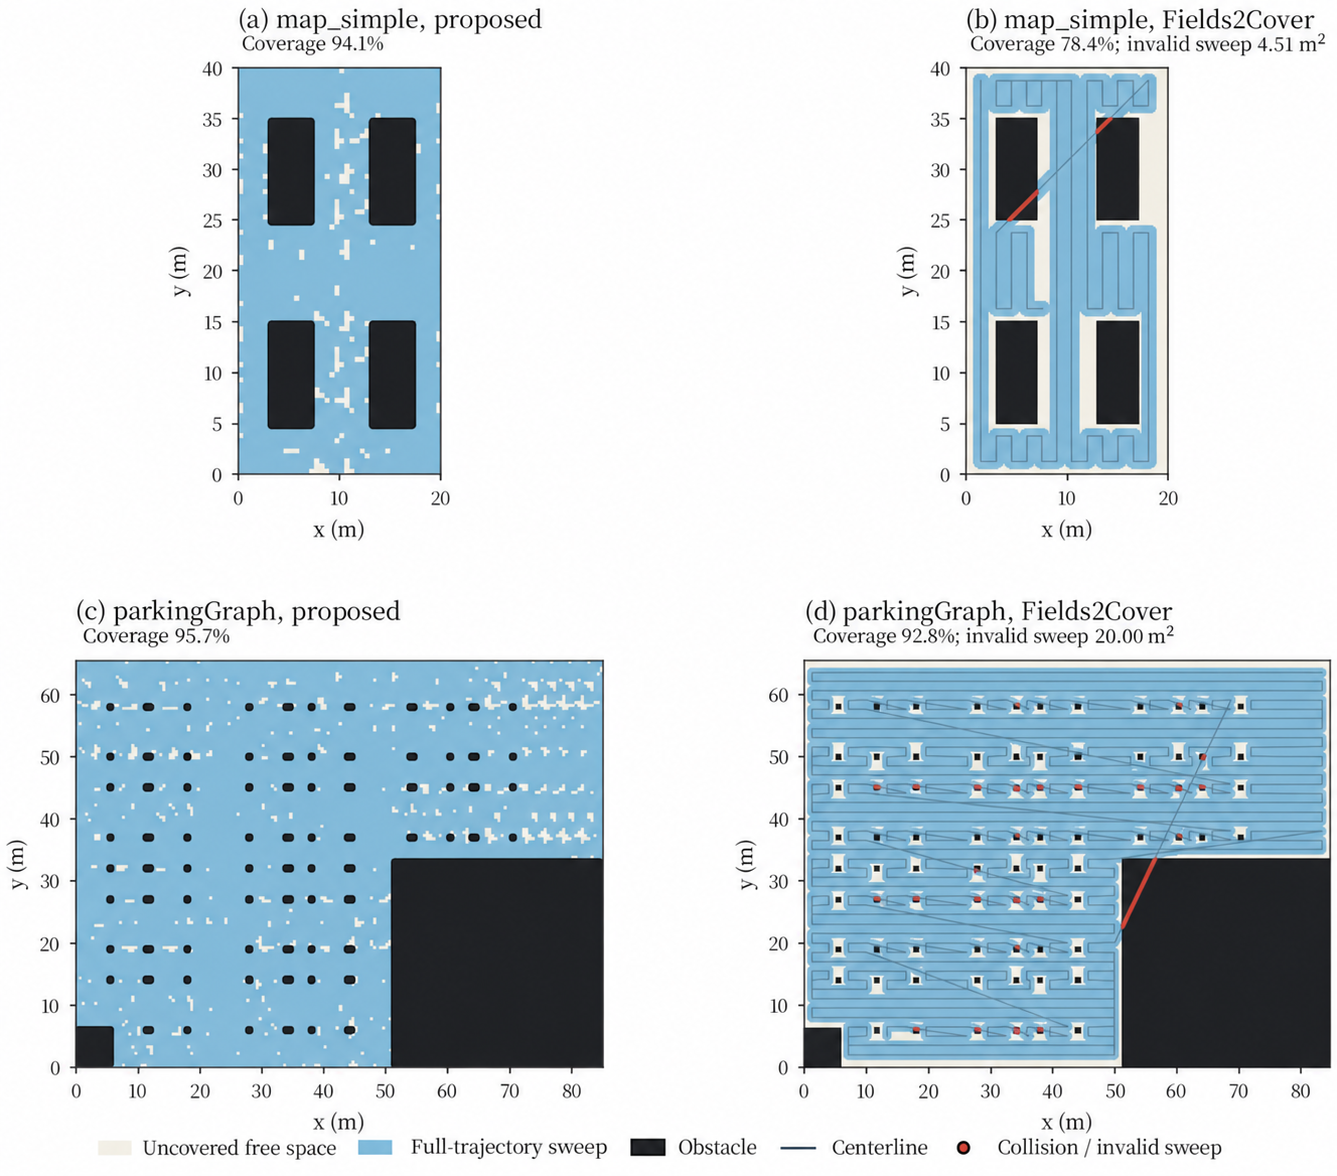
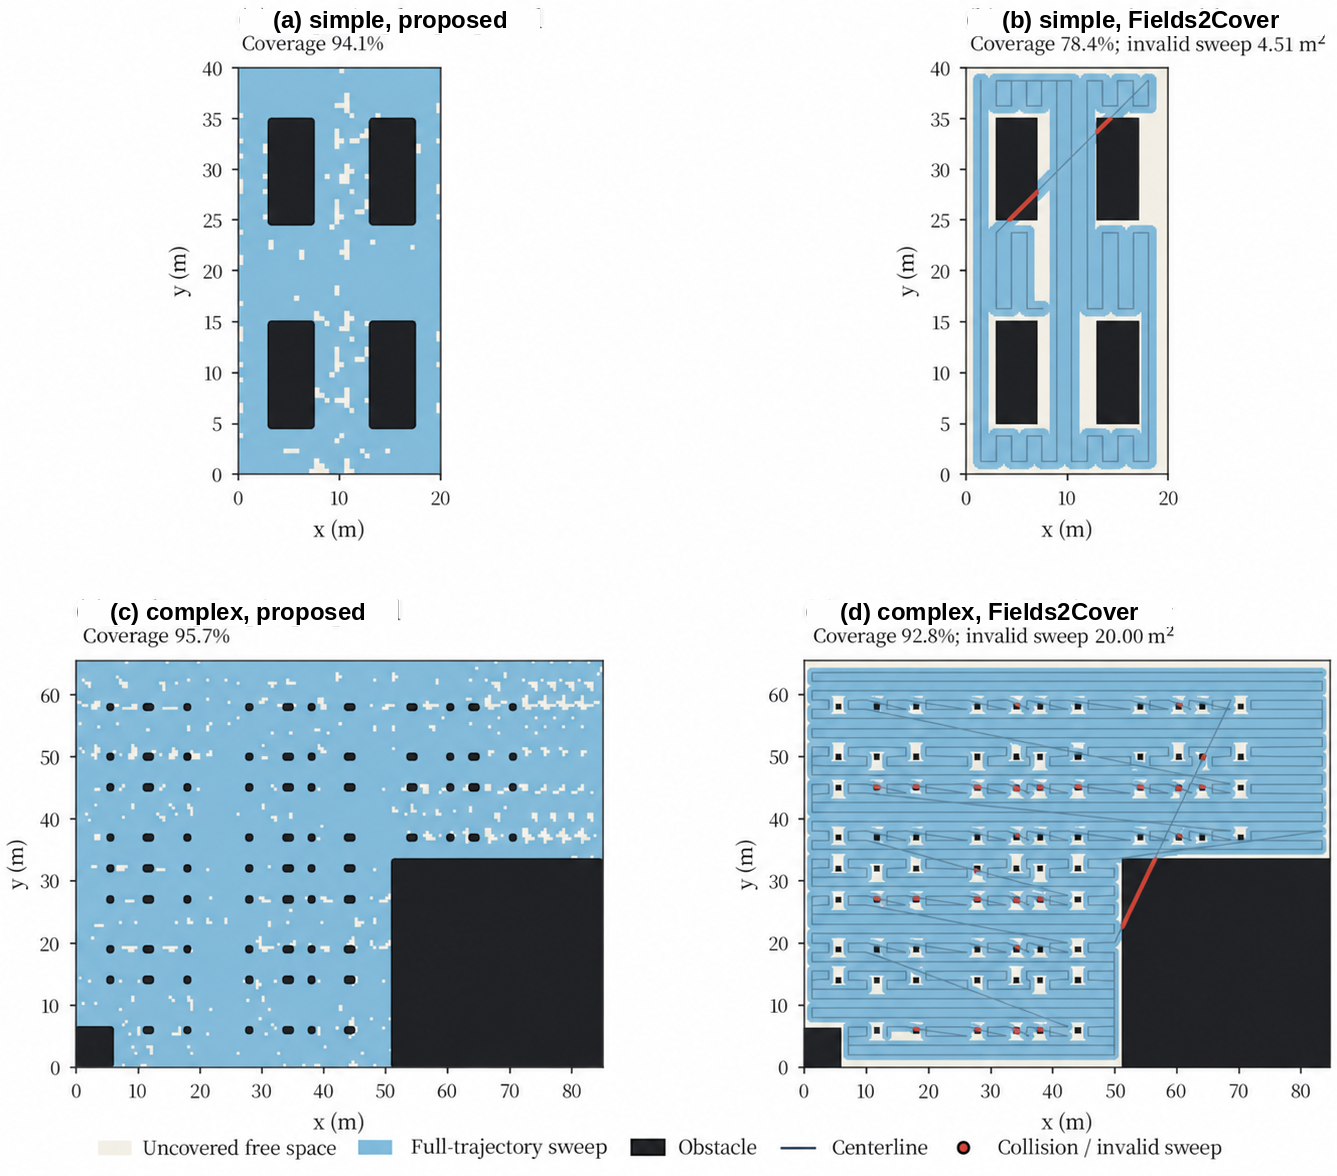
docs: rename coverage-figure maps to simple and complex

diff --git a/scripts/figures/relabel_coverage_titles.py b/scripts/figures/relabel_coverage_titles.py
@@ -1,0 +1,84 @@
+"""Rename in-figure map titles on the coverage comparison (revision 70).
+
+Only the first line of each panel changes. The coverage line, the masks,
+and the legend stay. map_simple becomes simple and parkingGraph becomes
+complex. scan map names are not in this figure.
+"""
+
+import sys
+from pathlib import Path
+
+sys.path.insert(0, str(Path(__file__).resolve().parent))
+
+import numpy as np
+from PIL import Image, ImageDraw, ImageFont
+
+from paper_style import figures_dir
+
+
+# Inclusive boxes around the first title line only. The coverage line begins
+# at y=37 on the top row and y=629 on the bottom row.
+_TITLES = (
+    ((240, 9, 539, 33), (389.5, 28), "(a) simple, proposed"),
+    ((968, 9, 1323, 35), (1140.5, 28), "(b) simple, Fields2Cover"),
+    ((78, 600, 397, 625), (237.5, 620), "(c) complex, proposed"),
+    ((807, 600, 1171, 626), (989.0, 620), "(d) complex, Fields2Cover"),
+)
+_FONT = "/usr/share/fonts/truetype/liberation/LiberationSans-Bold.ttf"
+_SIZE = 24
+_BG = (254, 254, 254)
+
+
+def _already(image: Image.Image, font: ImageFont.FreeTypeFont) -> bool:
+    """True when the new titles are present and the old names are gone."""
+    # A second run whitens these same boxes and redraws the same glyphs.
+    probe = image.copy()
+    _paint(probe, font)
+    return np.array_equal(np.asarray(probe), np.asarray(image))
+
+
+def _paint(image: Image.Image, font: ImageFont.FreeTypeFont) -> None:
+    draw = ImageDraw.Draw(image)
+    for (x0, y0, x1, y1), (cx, baseline), text in _TITLES:
+        draw.rectangle((x0, y0, x1, y1), fill=_BG)
+        draw.text((cx, baseline), text, font=font, fill=(0, 0, 0), anchor="ms")
+
+
+def main() -> None:
+    path = figures_dir() / "figure_2_coverage_comparison_en.png"
+    image = Image.open(path).convert("RGB")
+    before = np.asarray(image)
+    font = ImageFont.truetype(_FONT, _SIZE)
+    if _already(image, font):
+        print(f"titles already renamed: {path}")
+        return
+    # Coverage lines sit directly under the titles and must not move.
+    coverage = (
+        before[37:56, 180:700].copy(),
+        before[37:56, 900:1330].copy(),
+        before[629:650, 40:700].copy(),
+        before[629:656, 760:1336].copy(),
+    )
+    outside = before.copy()
+    _paint(image, font)
+    after = np.asarray(image)
+    for box, _, _ in _TITLES:
+        x0, y0, x1, y1 = box
+        outside[y0 : y1 + 1, x0 : x1 + 1] = after[y0 : y1 + 1, x0 : x1 + 1]
+    if not np.array_equal(outside, after):
+        raise SystemExit("pixels outside the title boxes changed")
+    kept = (
+        after[37:56, 180:700],
+        after[37:56, 900:1330],
+        after[629:650, 40:700],
+        after[629:656, 760:1336],
+    )
+    for index, (old, new) in enumerate(zip(coverage, kept)):
+        if not np.array_equal(old, new):
+            raise SystemExit(f"coverage line {index} changed")
+    image.save(path)
+    print(path)
+
+
+if __name__ == "__main__":
+    main()

diff --git a/notes/progress-B.md b/notes/progress-B.md
@@ -40,5 +40,12 @@
   ```
 
   Output: `english_paper/figures/figure_coverage_segments.png`, after the work versus non-work paragraph in Section 3.7 and before the coverage formulas. No caption.
-- [ ] 70. In-figure map names.
+- [x] 70. In-figure map names on the coverage comparison. First lines are now `(a) simple, proposed`, `(b) simple, Fields2Cover`, `(c) complex, proposed`, and `(d) complex, Fields2Cover`. The coverage percentages and the masks are unchanged. The speed-plot titles are updated with item 81. Subcaptions in `experiments.tex` are unchanged.
+
+  ```bash
+  python scripts/figures/relabel_coverage_titles.py
+  ```
+
+  Output: `english_paper/figures/figure_2_coverage_comparison_en.png`.
+
 - [ ] 81. Speed curves.
